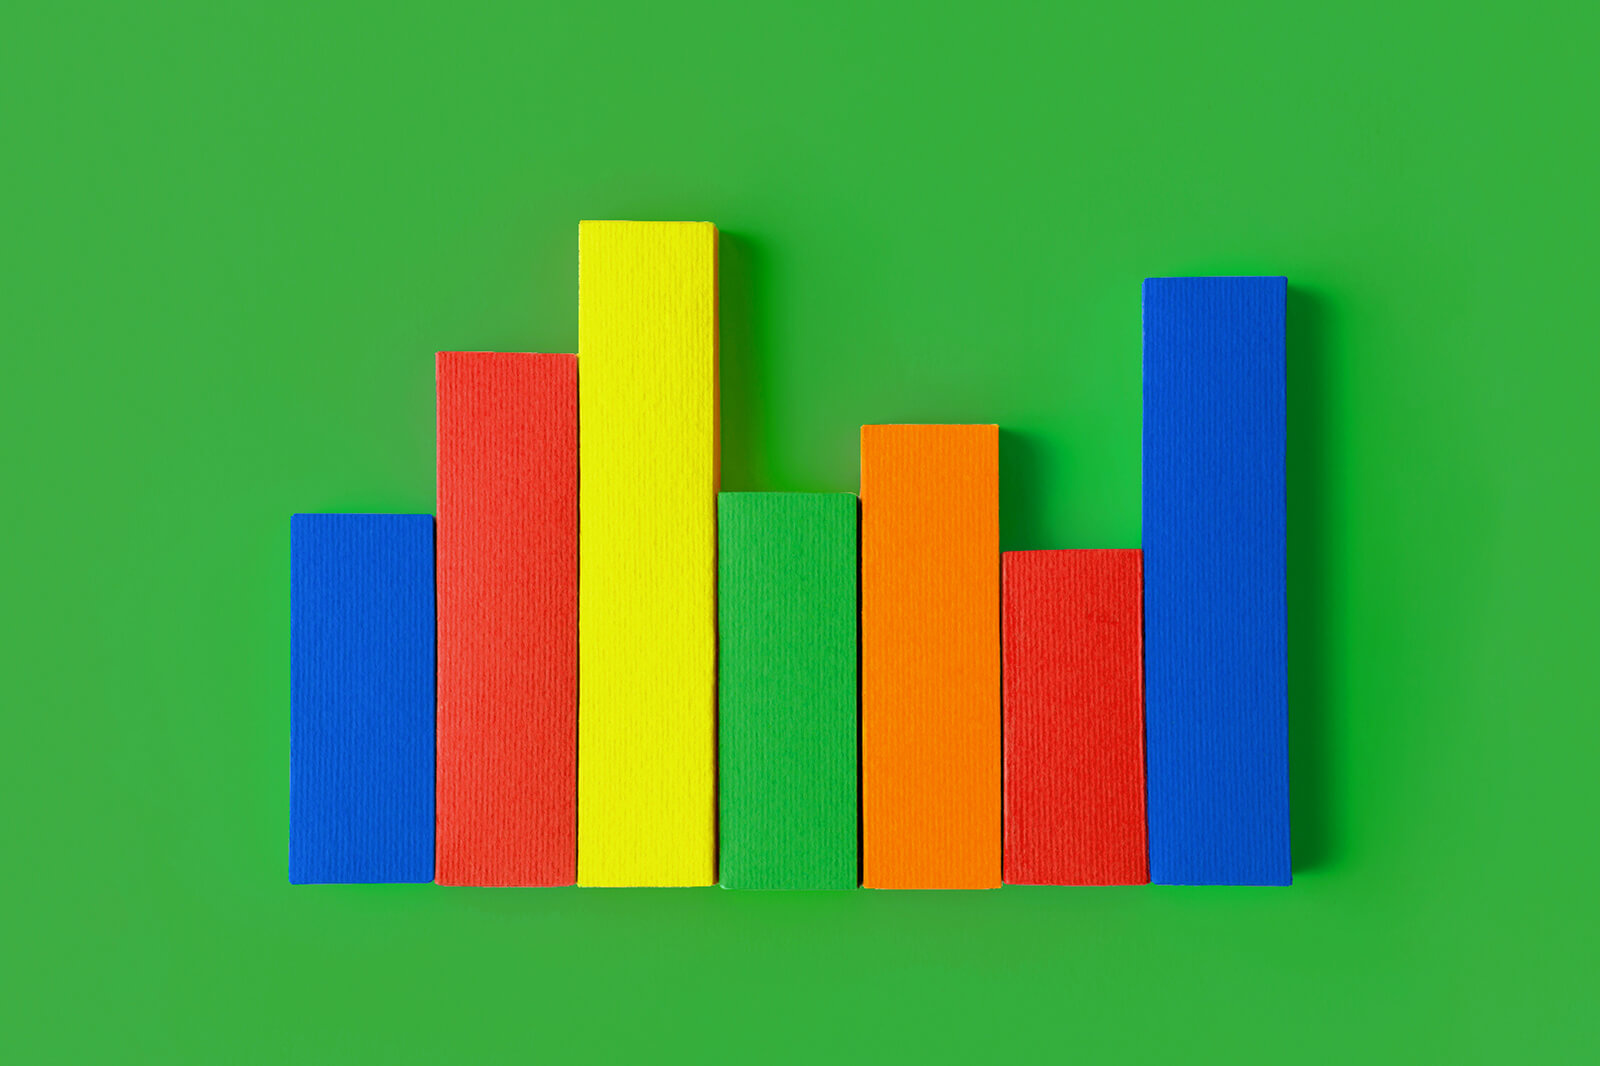
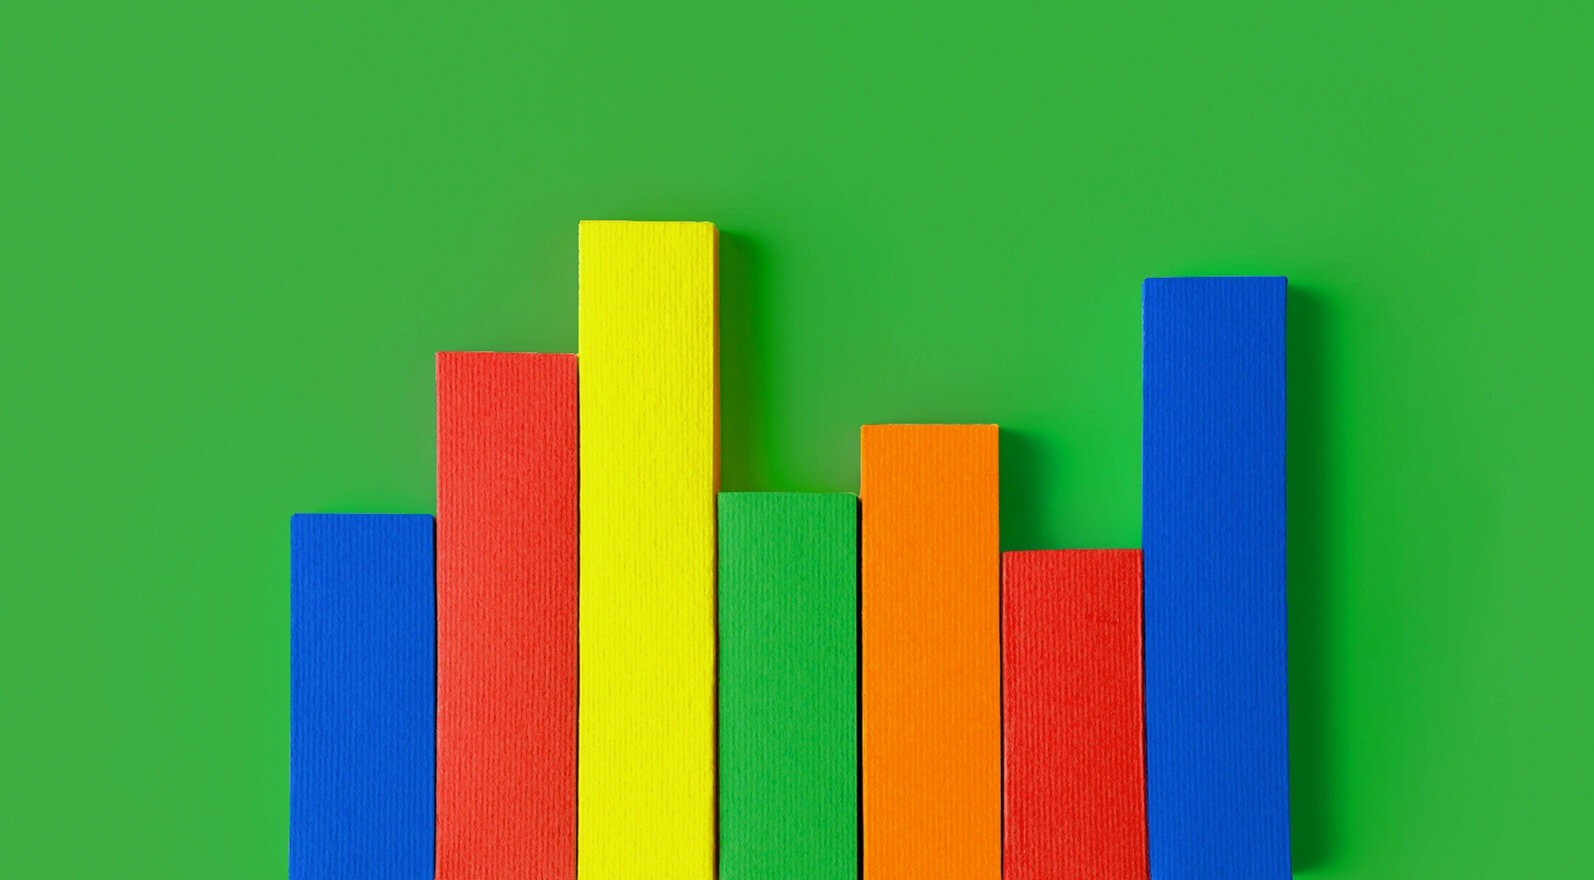
Html and css adjustment

Changed region(s): [[0.1537, 0.1841, 0.8915, 1.0], [0.1537, 0.7977, 0.1844, 0.8284]]

diff --git a/polls/templates/polls/base.html b/polls/templates/polls/base.html
@@ -3,15 +3,14 @@
 <html>
     <head>
         <meta name="viewport" content="width=device-width, initial-scale=1">
-        <title>Polls</title>
+        <title>Polls Web App</title>
         <link rel="stylesheet" href="https://cdn.jsdelivr.net/npm/bootstrap@4.5.3/dist/css/bootstrap.min.css" integrity="sha384-TX8t27EcRE3e/ihU7zmQxVncDAy5uIKz4rEkgIXeMed4M0jlfIDPvg6uqKI2xXr2" crossorigin="anonymous">
-        <link href='//fonts.googleapis.com/css?family=Lobster&subset=latin,latin-ext' rel='stylesheet' type='text/css'>
         <link rel="stylesheet" type="text/css" href="{% static 'polls/style.css' %}">
     </head>
     <body>
         <header class="page-header">
             <div class="container-sm">
-                <h1><a href="{% url 'polls:index' %}">Polls</a></h1>
+                <h1><a href="{% url 'polls:index' %}">Polls Web App</a></h1>
             </div>
         </header>
         <main class="container">

diff --git a/polls/templates/polls/detail.html b/polls/templates/polls/detail.html
@@ -10,12 +10,12 @@
         {% for choice in question.choice_set.all %}
             <div class="row">
             <input class="form-check-input" type="radio" name="choice" id="choice{{ forloop.counter }}" value="{{ choice.id }}">
-            <label class="form-check-input" for="choice{{ forloop.counter }}">{{ choice.choice_text }}</label><br>
+            <label class="form-check-label" for="choice{{ forloop.counter }}">{{ choice.choice_text }}</label><br>
             </div>
         {% endfor %}
         </div>
     </fieldset>
-    <button type="submit" class="btn btn-primary" value="Vote">Vote</button>
+    <br><button type="submit" class="btn btn-primary" value="Vote">Vote</button>
     </form>
 
     {% endblock %}

diff --git a/polls/static/polls/style.css b/polls/static/polls/style.css
@@ -1,3 +1,21 @@
+.page-header {
+    background-color: #cecece;
+    margin-top: 0;
+    padding: 2px 2px 2px 2px;
+}
+
+.page-header h1,
+.page-header h1 a,
+.page-header h1 a:visited,
+.page-header h1 a:active {
+    font-size: 36pt;
+    text-decoration: none;
+}
+
 body {
-    background: white url("images/background.jpg") no-repeat;
+    background: #34ae40 url("images/background.jpg") no-repeat; 
+    background-position-y: top;
+    height: 540px;
+    background-size: cover;
+    position: relative;
 }

diff --git a/polls/templates/polls/index.html b/polls/templates/polls/index.html
@@ -2,8 +2,8 @@
 {% block content %}
 {% load static %}
 
-
 <div class="list-group">
+    <br>
     {% if latest_question_list %}
         <ul>
         {% for question in latest_question_list %}
